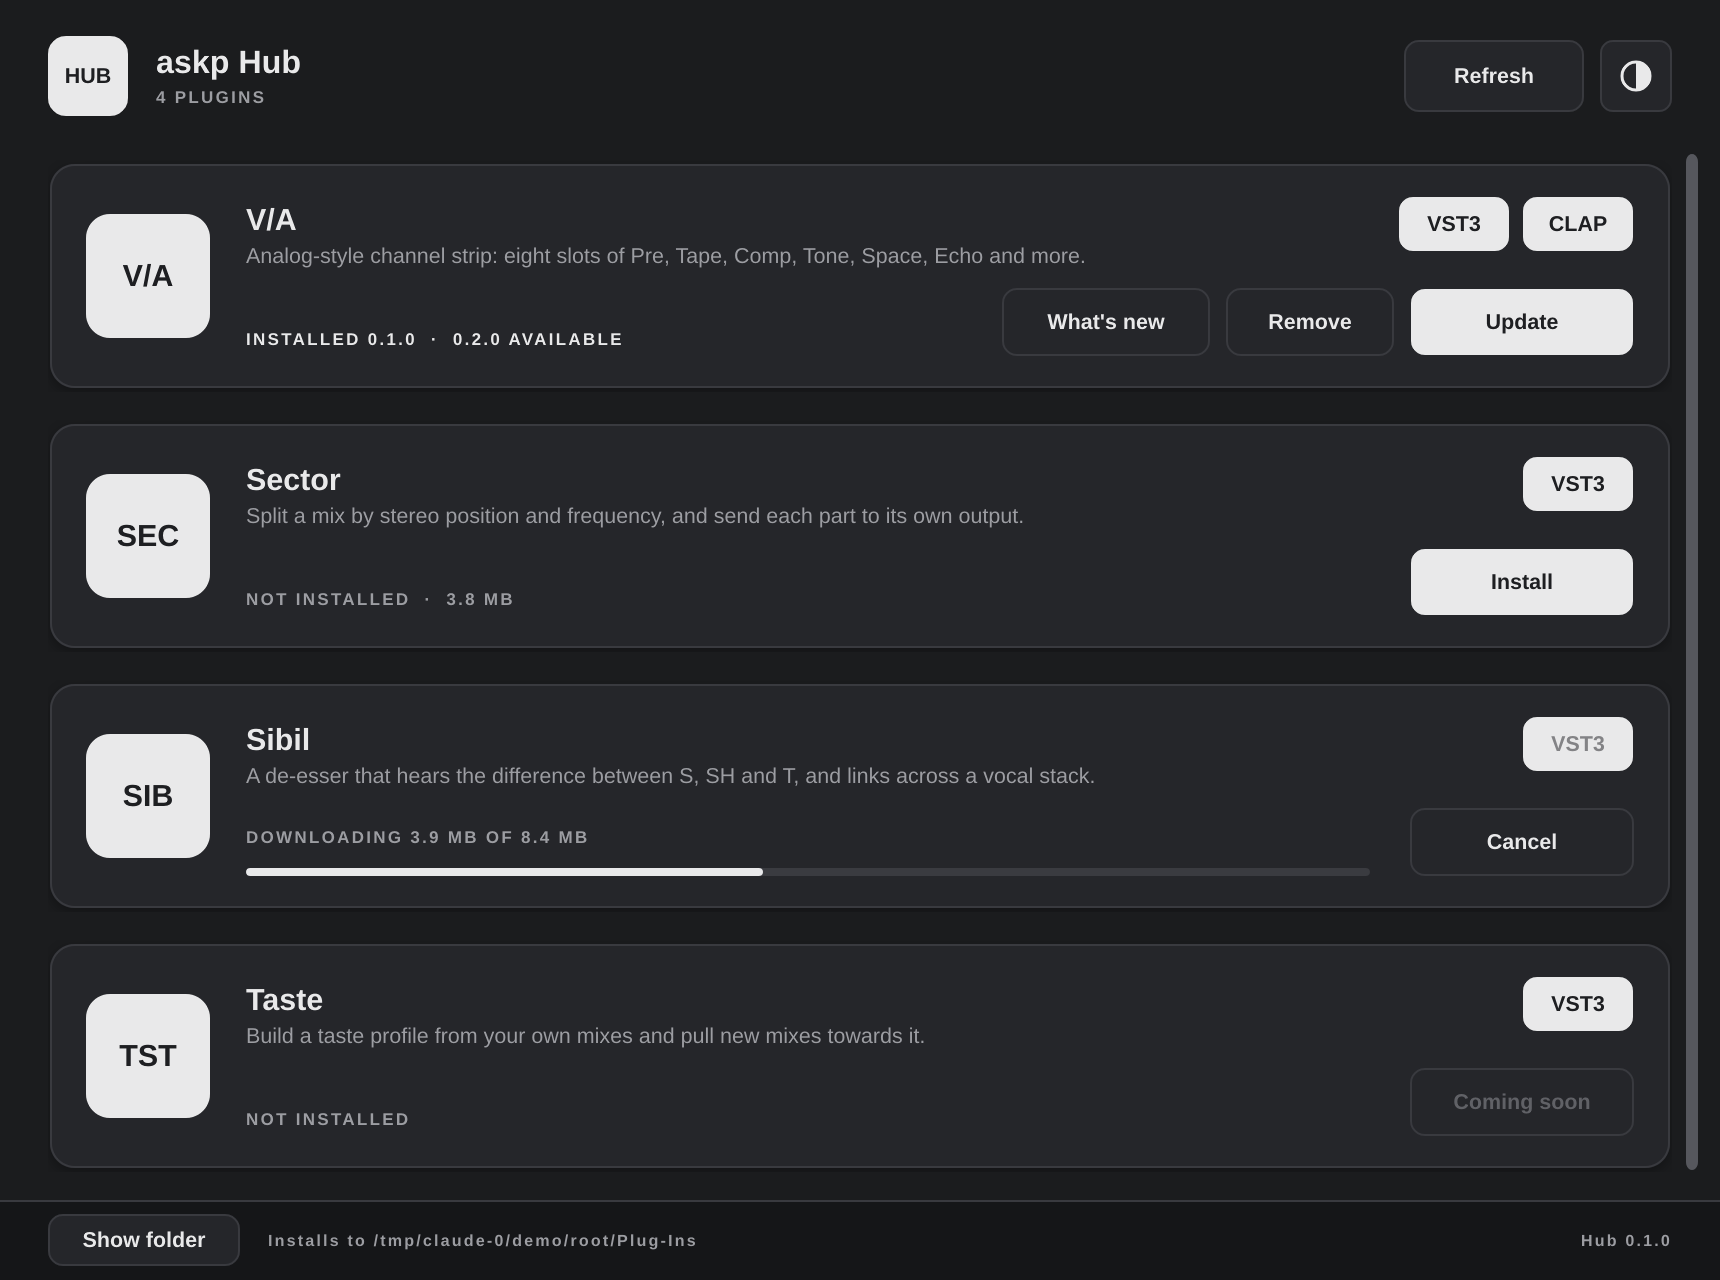
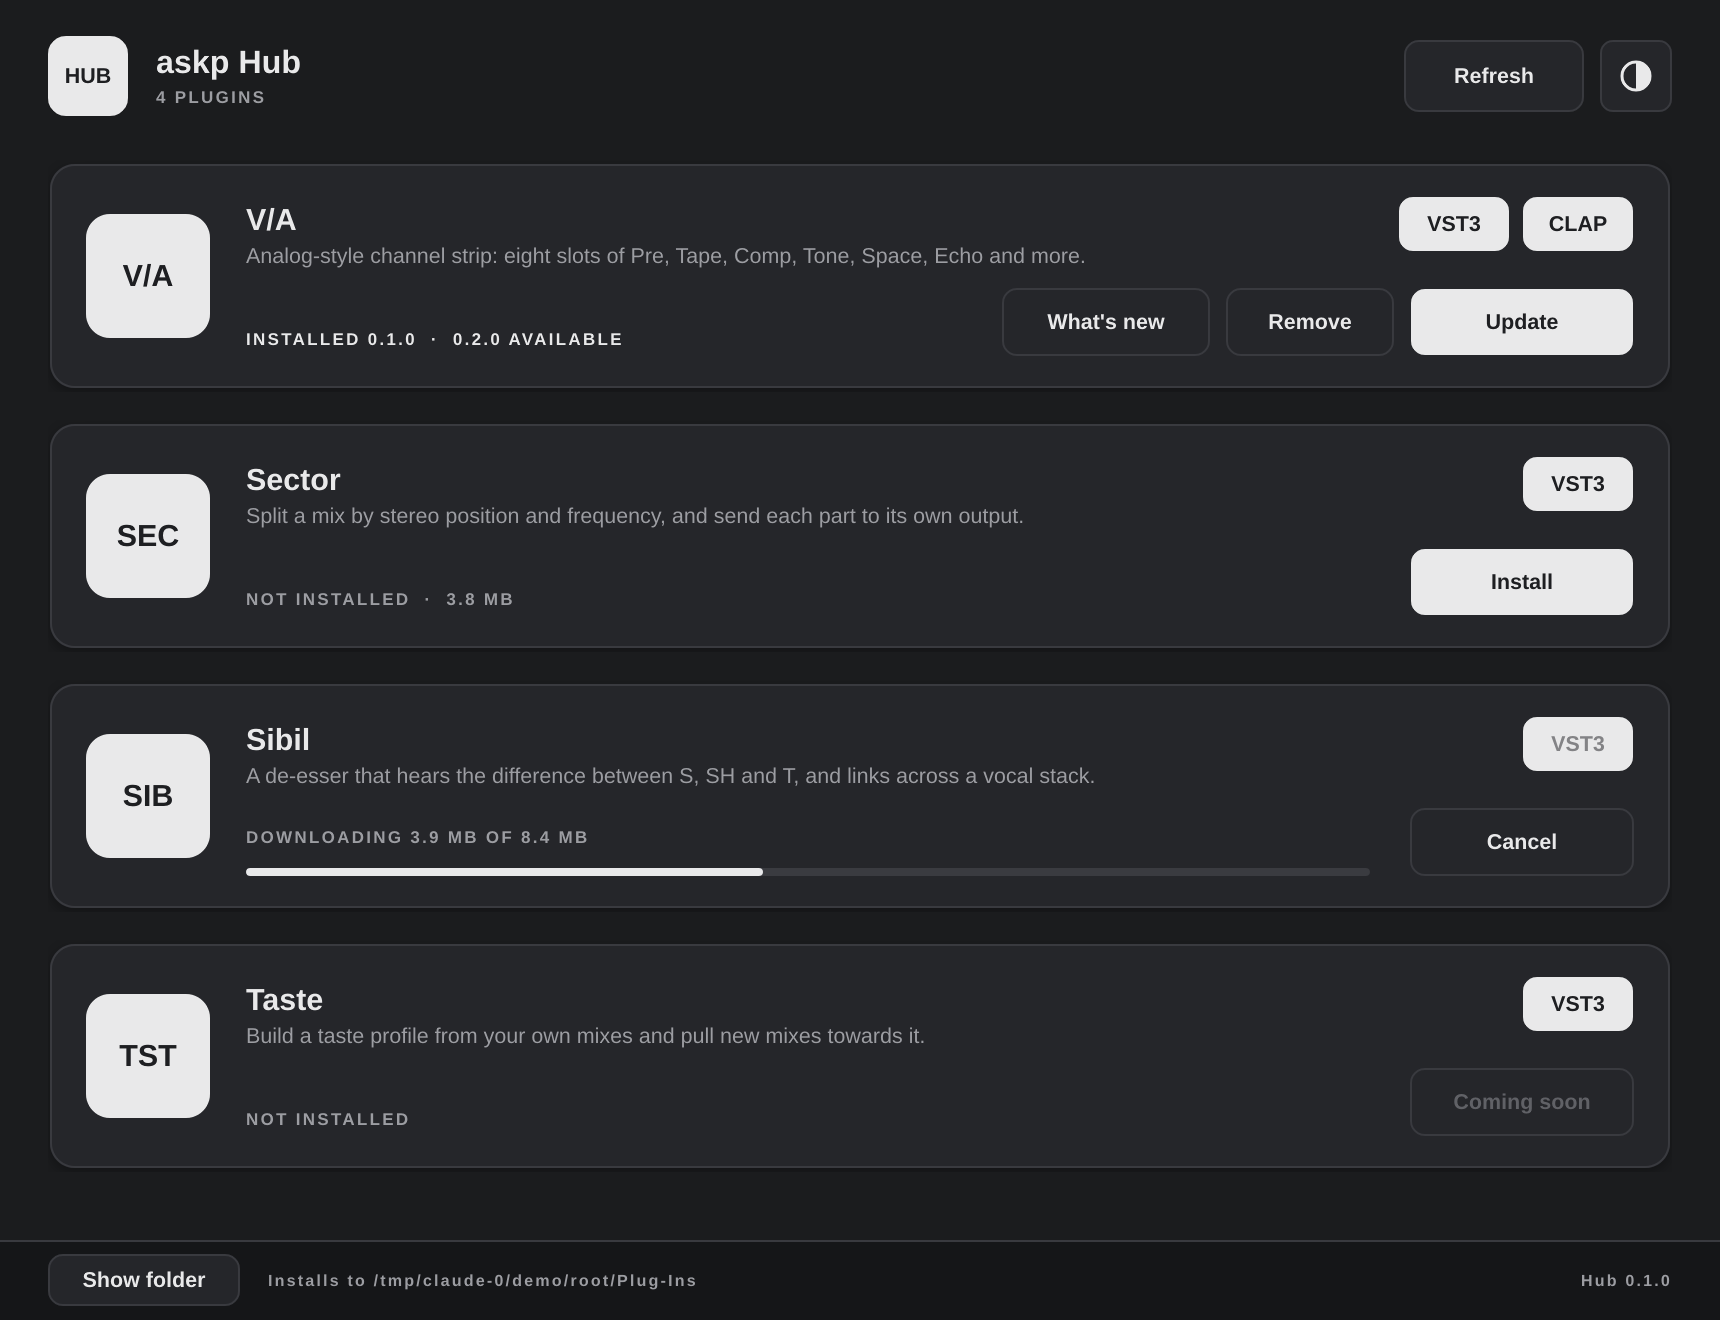
Hide the scrollbar when every card fits; refresh screenshots
Claude-Session: https://claude.ai/code/session_01AAci9vKmBN6iEtxkJBBhrq

diff --git a/Source/app/HubComponent.cpp b/Source/app/HubComponent.cpp
@@ -266,7 +266,7 @@ HubComponent::HubComponent(juce::String manifestSource, bool syncLoad)
     } else {
         refresh();
     }
-    setSize(860, 640);
+    setSize(860, 660);
 }
 
 HubComponent::~HubComponent() {
@@ -439,7 +439,7 @@ void HubComponent::resized() {
     viewport.setBounds(r.withTrimmedLeft(18).withTrimmedRight(10).withTrimmedBottom(6));
 
     const int w = viewport.getWidth() - viewport.getScrollBarThickness() - 4;
-    list.setSize(w, juce::jmax(1, cards.size() * (cardHeight + gap) + 6));
+    list.setSize(w, juce::jmax(1, cards.size() * (cardHeight + gap) - gap + 8));   // no scrollbar when it all fits
     for (int i = 0; i < cards.size(); ++i)
         cards[i]->setBounds(6, 4 + i * (cardHeight + gap), w - 8, cardHeight);
 }
